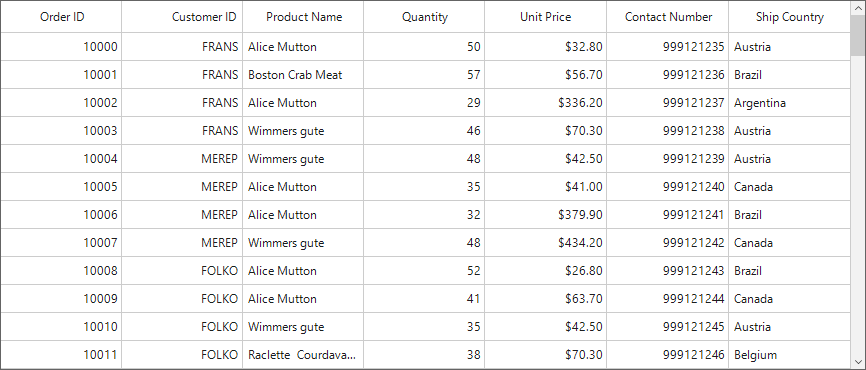
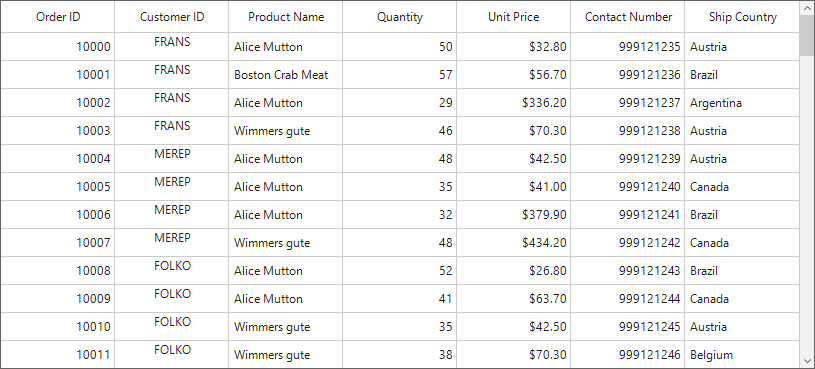
WF-47995  - Included UG content for changing the text alignment of a column in SfDataGrid

diff --git a/WindowsForms/DataGrid/Styling.md b/WindowsForms/DataGrid/Styling.md
@@ -56,6 +56,29 @@ Me.sfDataGrid1.Style.CellStyle.Font.Orientation = 45
 
 ![Font orientation customization in Windows forms datagrid](Styling_images/Styling5.png)
 
+### Text alignment for record cells
+
+The alignment of the text within the record cells can be changed by using [CellStyle.HorizontalAlignment](https://help.syncfusion.com/cr/cref_files/windowsforms/Syncfusion.SfDataGrid.WinForms~Syncfusion.WinForms.DataGrid.Styles.CellStyleInfo~HorizontalAlignment.html) and [CellStyle.VerticalAlignment](https://help.syncfusion.com/cr/cref_files/windowsforms/Syncfusion.SfDataGrid.WinForms~Syncfusion.WinForms.DataGrid.Styles.CellStyleInfo~VerticalAlignment.html) properties respectively.  
+
+{% tabs %}
+{% highlight c# %}
+//Change alignment for the record cells.
+this.sfDataGrid.Columns["CustomerID"].CellStyle.HorizontalAlignment = HorizontalAlignment.Right;
+this.sfDataGrid1.Columns["CustomerID"].CellStyle.VerticalAlignment = System.Windows.Forms.VisualStyles.VerticalAlignment.Top;
+
+{% endhighlight %}
+{% highlight vb %}
+'Change alignment for the record cells.
+Me.sfDataGrid.Columns("CustomerID").CellStyle.HorizontalAlignment = HorizontalAlignment.Right
+Me.sfDataGrid.Columns("CustomerID").CellStyle.VerticalAlignment = System.Windows.Forms.VisualStyles.VerticalAlignment.Top
+
+{% endhighlight %}
+{% endtabs %}
+
+![Text alignment customization of record cells in windows forms datagrid](Styling_images/Styling9.png)
+
+
+
 N>[GridColumnBase.CellStyle](https://help.syncfusion.com/cr/cref_files/windowsforms/Syncfusion.SfDataGrid.WinForms~Syncfusion.WinForms.DataGrid.GridColumnBase~CellStyle.html) has higher priority than [SfDataGrid.Style.CellStyle](https://help.syncfusion.com/cr/cref_files/windowsforms/Syncfusion.SfDataGrid.WinForms~Syncfusion.WinForms.DataGrid.Styles.DataGridStyle~CellStyle.html).
 
 ## Styling Column Header
@@ -206,31 +229,6 @@ For more details, refer to `Appearance` in [Freeze Panes](https://help.syncfusio
 ## Selection	
 Appearance of the selected rows and current cell can be customized by using the [SelectionStyle](https://help.syncfusion.com/cr/cref_files/windowsforms/Syncfusion.SfDataGrid.WinForms~Syncfusion.WinForms.DataGrid.Styles.DataGridStyle~SelectionStyle.html) property.
 For more details, refer to `Appearance` in [Selection](https://help.syncfusion.com/windowsforms/sfdatagrid/selection#appearance ) section.
-
-## Changing the alignment of the cell text for a column
-
-The alignment of the text within the record cells can be changed by using [CellStyle.HorizontalAlignment](https://help.syncfusion.com/cr/cref_files/windowsforms/Syncfusion.SfDataGrid.WinForms~Syncfusion.WinForms.DataGrid.Styles.CellStyleInfo~HorizontalAlignment.html) and [CellStyle.VerticalAlignment](https://help.syncfusion.com/cr/cref_files/windowsforms/Syncfusion.SfDataGrid.WinForms~Syncfusion.WinForms.DataGrid.Styles.CellStyleInfo~VerticalAlignment.html) properties respectively.  Similarly, the alignment of the text within the header cells can be changed by using [HeaderStyle.HorizontalAlignment](https://help.syncfusion.com/cr/cref_files/windowsforms/Syncfusion.SfDataGrid.WinForms~Syncfusion.WinForms.DataGrid.Styles.CellStyleInfo~HorizontalAlignment.html) and [HeaderStyle.VerticalAlignment](https://help.syncfusion.com/cr/cref_files/windowsforms/Syncfusion.SfDataGrid.WinForms~Syncfusion.WinForms.DataGrid.Styles.CellStyleInfo~VerticalAlignment.html) properties respectively.
-
-{% tabs %}
-{% highlight c# %}
-//Change alignment for the record cells.
-this.sfDataGrid.Columns["CustomerID"].CellStyle.HorizontalAlignment = HorizontalAlignment.Right;
-
-//Change alignment for the header cells.
-this.sfDataGrid.Columns["CustomerID"].HeaderStyle.HorizontalAlignment = HorizontalAlignment.Right;
-{% endhighlight %}
-{% highlight vb %}
-'Change alignment for the record cells.
-Me.sfDataGrid.Columns("CustomerID").CellStyle.HorizontalAlignment = HorizontalAlignment.Right
-
-'Change alignment for the header cells.
-Me.sfDataGrid.Columns("CustomerID").HeaderStyle.HorizontalAlignment = HorizontalAlignment.Right
-{% endhighlight %}
-{% endtabs %}
-
-![Text alignment customization of columns in windows forms datagrid](Styling_images/Styling9.png)
-
-N>[GridColumnBase.CellStyle](https://help.syncfusion.com/cr/cref_files/windowsforms/Syncfusion.SfDataGrid.WinForms~Syncfusion.WinForms.DataGrid.GridColumnBase~CellStyle.html) and  [GridColumnBase.HeaderStyle](https://help.syncfusion.com/cr/cref_files/windowsforms/Syncfusion.SfDataGrid.WinForms~Syncfusion.WinForms.DataGrid.GridColumnBase~HeaderStyle.html) has higher priority than [SfDataGrid.Style.CellStyle](https://help.syncfusion.com/cr/cref_files/windowsforms/Syncfusion.SfDataGrid.WinForms~Syncfusion.WinForms.DataGrid.Styles.DataGridStyle~CellStyle.html) and [SfDataGrid.Style.HeaderStyle](https://help.syncfusion.com/cr/cref_files/windowsforms/Syncfusion.SfDataGrid.WinForms~Syncfusion.WinForms.DataGrid.Styles.DataGridStyle~HeaderStyle.html).
 
 ## Changing the Color and Thickness of the Gridlines
 Color and thickness of the grid lines can be changed by using the [Borders](https://help.syncfusion.com/cr/cref_files/windowsforms/Syncfusion.SfDataGrid.WinForms~Syncfusion.WinForms.DataGrid.Styles.CellStyleInfo~Borders.html) property.

diff --git a/WindowsForms/DataGrid/Rows.md b/WindowsForms/DataGrid/Rows.md
@@ -301,6 +301,28 @@ this.sfDataGrid1.Style.HeaderStyle.Font.Orientation = 45;
 
 ![Font orientation customization in header row of Windows forms datagrid](Rows_images/img8.png)
 
+### Text alignment for Header Row
+
+The alignment of the text within the header cells can be changed by using [HeaderStyle.HorizontalAlignment](https://help.syncfusion.com/cr/cref_files/windowsforms/Syncfusion.SfDataGrid.WinForms~Syncfusion.WinForms.DataGrid.Styles.CellStyleInfo~HorizontalAlignment.html) and [HeaderStyle.VerticalAlignment](https://help.syncfusion.com/cr/cref_files/windowsforms/Syncfusion.SfDataGrid.WinForms~Syncfusion.WinForms.DataGrid.Styles.CellStyleInfo~VerticalAlignment.html) properties respectively.
+
+{% tabs %}
+{% highlight c# %}
+//Change alignment for the header cells.
+this.sfDataGrid1.Columns["CustomerID"].HeaderStyle.HorizontalAlignment = HorizontalAlignment.Center;
+this.sfDataGrid1.Columns["CustomerID"].HeaderStyle.VerticalAlignment = System.Windows.Forms.VisualStyles.VerticalAlignment.Top;
+
+{% endhighlight %}
+{% highlight vb %}
+'Change alignment for the header cells.
+Me.sfDataGrid.Columns("CustomerID").HeaderStyle.HorizontalAlignment = HorizontalAlignment.Right
+Me.sfDataGrid.Columns("CustomerID").HeaderStyle.VerticalAlignment = System.Windows.Forms.VisualStyles.VerticalAlignment.Top
+
+{% endhighlight %}
+{% endtabs %}
+
+![Text alignment customization of header cell in windows forms datagrid](Rows_images/img11.png)
+
+
 ### Hiding Header Row
 
 The header row can be hide by setting [SfDataGrid.HeaderRowHeight](https://help.syncfusion.com/cr/cref_files/windowsforms/Syncfusion.SfDataGrid.WinForms~Syncfusion.WinForms.DataGrid.SfDataGrid~HeaderRowHeight.html) property as `0` (zero).
